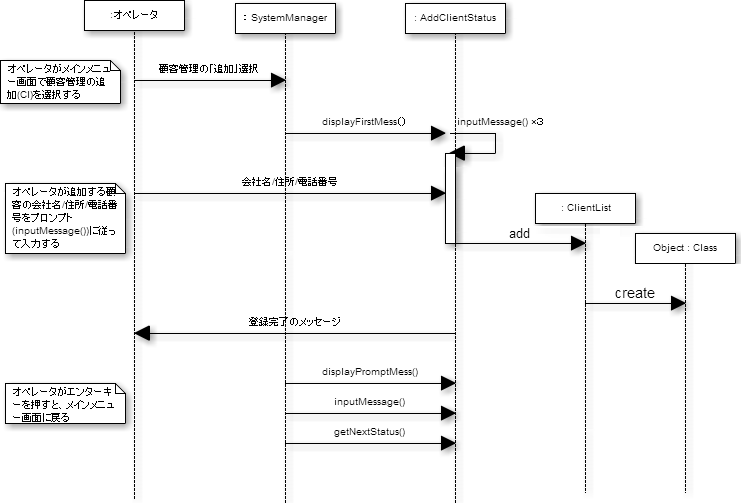
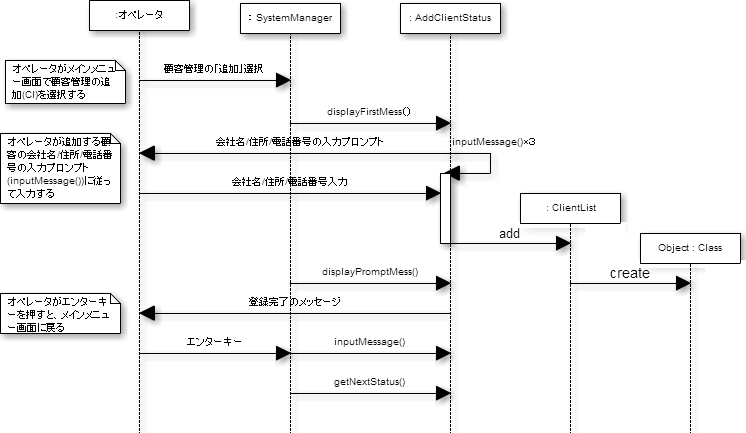
addのシーケンス図の修正およびupdateのシーケンス図の追加

diff --git a/mon1/henkou.md b/mon1/henkou.md
@@ -27,6 +27,9 @@
 #### 4.1.1 「追加」のコードが選択された場合
 ![追加のシーケンス図](jpg/sqd_add.png)
 
+#### 4.1.2 「更新」のコードが選択された場合
+![更新のシーケンス図](jpg/sqd_update.png)
+
 ## 5.クラス図
 
 ### 5.1. クラスの概要
